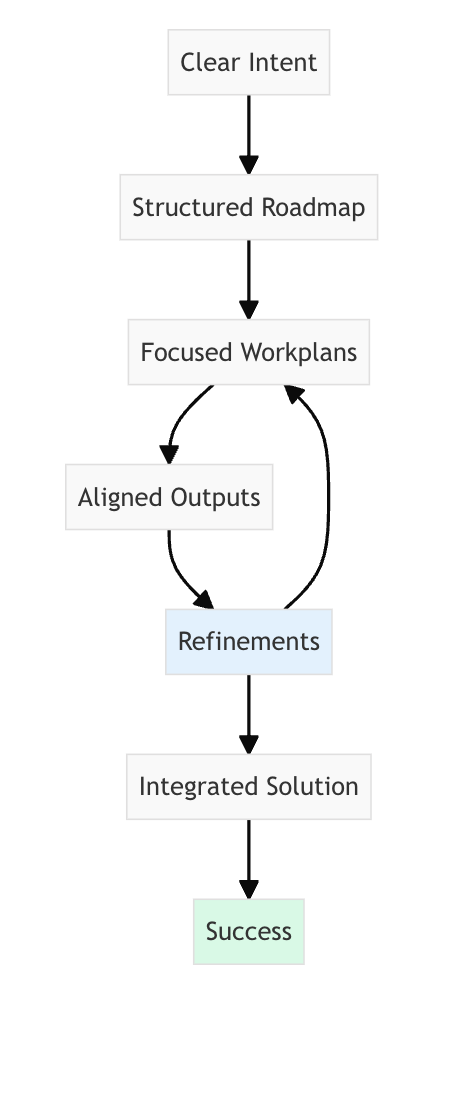
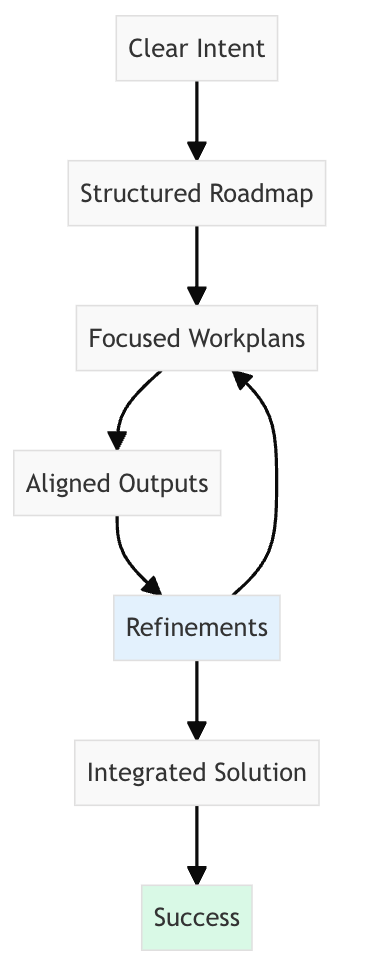
fixes

diff --git a/README.md b/README.md
@@ -71,12 +71,12 @@ graph LR
 <tr>
 <td width="50%" align="center">
 
-![Chaos - Without Structure](chaos.png)
+<img src="chaos.png" alt="Chaos - Without Structure" width="500" height="650" />
 
 </td>
 <td width="50%" align="center">
 
-![Clarity - With Specflow](clarity.png)
+<img src="clarity.png" alt="Clarity - With Specflow" width="500" height="650" />
 
 </td>
 </tr>
@@ -89,35 +89,7 @@ graph LR
 3. **Learn by example**: Explore [Project Examples](https://www.specflow.com/examples/)
 4. **Watch tutorials**: Check out our [Video Library](https://www.specflow.com/videos.html)
 
-## 📚 This Repository
 
-This repository contains the source code for the Specflow methodology website:
-
-```
-specflow/
-├── website/          # Quarto-based documentation site
-│   ├── *.qmd        # Content pages (Quarto Markdown)
-│   ├── assets/      # Images, logos, favicons
-│   └── _site/       # Generated static site
-└── workplans/       # Development documentation
-```
-
-### Building the Site Locally
-
-```bash
-# Prerequisites: Install Quarto
-# https://quarto.org/docs/get-started/
-
-# Clone the repository
-git clone https://github.com/specstoryai/specflow.git
-cd specflow/website
-
-# Render the site
-quarto render
-
-# Preview locally
-quarto preview
-```
 
 ## 🤝 Contributing
 
